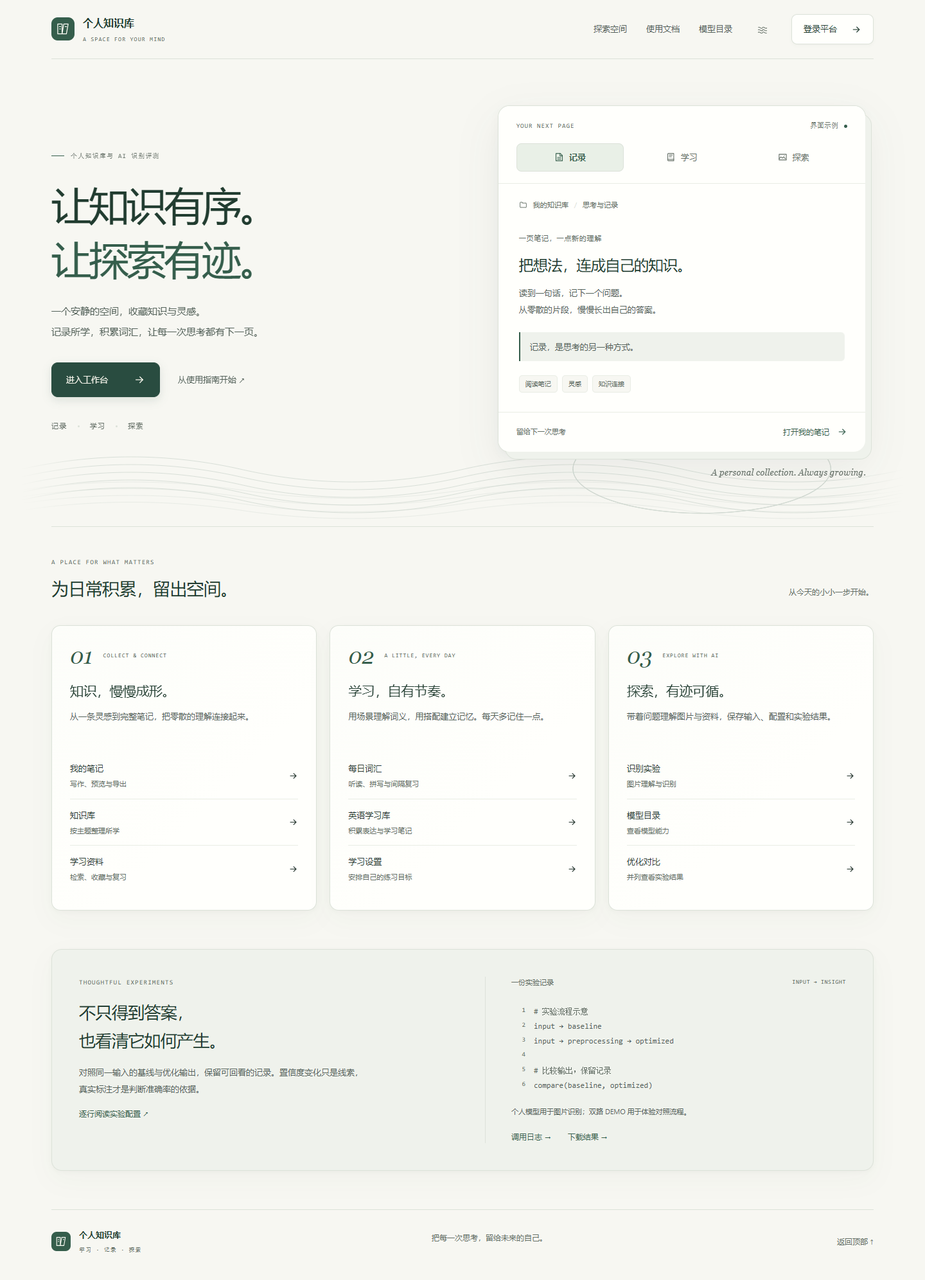
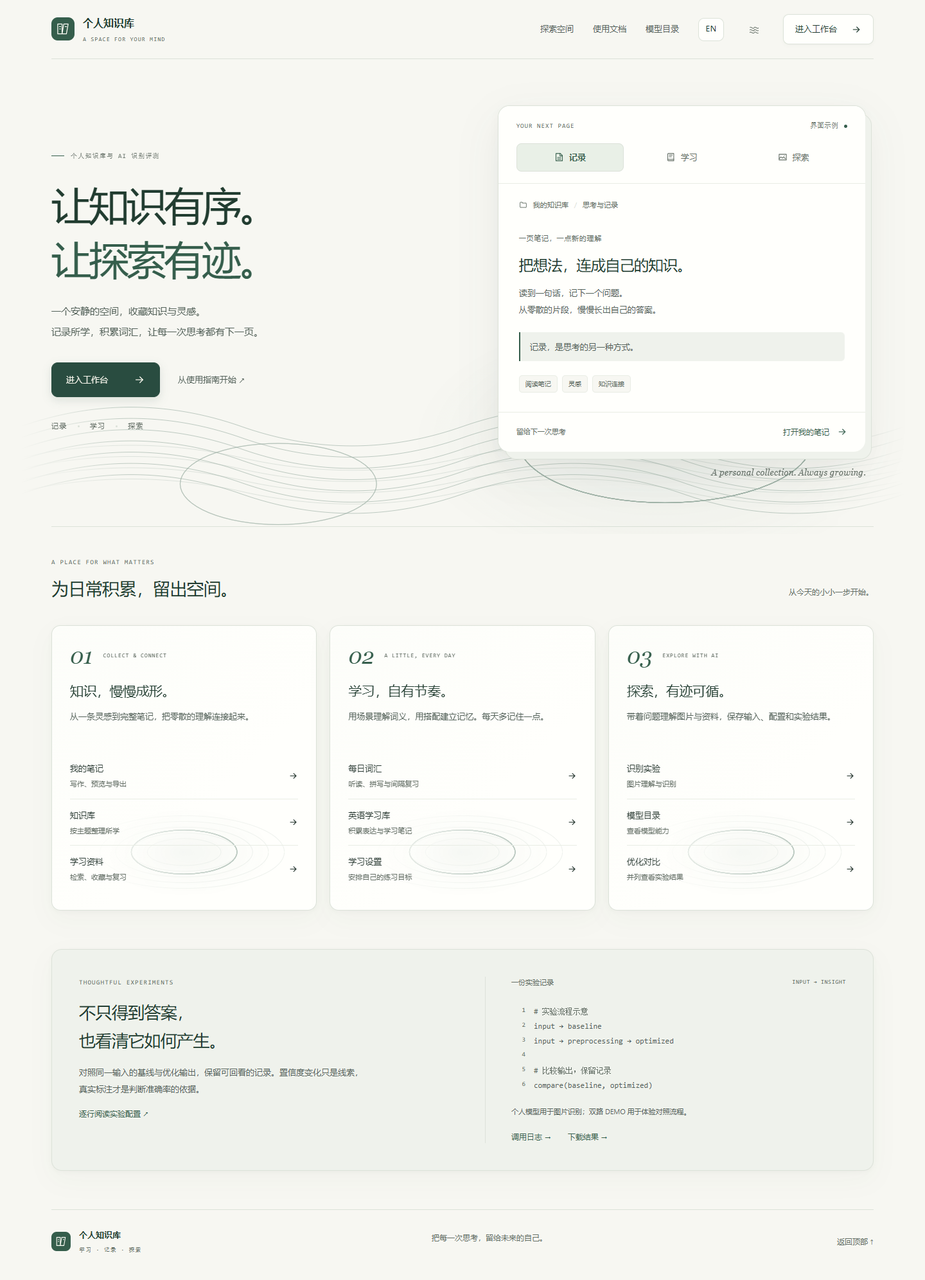
Refine water motion across the learning workspace

diff --git a/cle/src/components/DocumentLibrary.vue b/cle/src/components/DocumentLibrary.vue
@@ -1,4 +1,5 @@
 <script setup lang="ts">
+import AmbientWaves from '@/components/AmbientWaves.vue'
 import HelpHint from '@/components/HelpHint.vue'
 import { uiText } from '@/i18n'
 
@@ -32,5 +33,5 @@ async function download(){try{await api.download('/research/documents/'+selected
 onMounted(async()=>{try{await load();if(route.query.passage){const p=await request<Passage>('/research/documents/passages/'+encodeURIComponent(String(route.query.passage)),{signal:controller.signal});await open(p.documentId,p.id)}else if(route.query.document)await open(String(route.query.document))}catch(e){if(!controller.signal.aborted)error.value=(e as Error).message}})
 onBeforeUnmount(()=>{epoch++;imageEpoch++;controller.abort();if(imageUrl.value)URL.revokeObjectURL(imageUrl.value)})
 </script>
-<template><div><header class="research-section-title"><div><h2>{{ uiText('把资料读进知识库') }}<HelpHint label="文档阅读" text="导入 PDF 或 DOCX 后点击标题阅读。扫描件可识别文字，但需要人工校对；导入任务未完成时，在「任务与同步」查看进度。" /></h2><p class="research-hint">{{ uiText('PDF / Word 导入后可搜索、摘录和制作复习卡。最多 10 MB、300 页；一次最多识别 60 个扫描页。') }}</p></div><label v-if="authStore.has('note:write')" class="button button--dark">{{busy?uiText('正在处理…'):uiText('导入文档')}}<input type="file" accept=".pdf,.docx" :disabled="busy" @change="upload" class="document-file-input" /></label></header><p><label><input v-model="recognize" type="checkbox" :disabled="busy"/>{{ uiText('自动识别扫描页（本地中英文 OCR）') }}</label> · <RouterLink to="/app/research?tab=tasks">{{ uiText('任务与同步 →') }}</RouterLink> · <button class="table-action" @click="load().catch(e=>error=e.message)">{{ uiText('刷新文档') }}</button></p><p v-if="message" role="status">{{message}}</p><p v-if="error" role="alert" class="form-error">{{ uiText(error) }}</p><div class="document-reader"><aside><p v-if="!docs.length" class="research-hint">{{ uiText('导入后的文档会显示在这里。') }}</p><button v-for="d in docs" :key="d.id" :class="{active:selected===d.id}" :disabled="busy" @click="open(d.id)"><small>{{d.format}}</small>{{d.title}}</button></aside><section v-if="current"><header class="research-section-title"><h3>{{current.locator}}</h3><div class="research-actions"><button class="button button--ghost" @click="download">{{ uiText('下载原文') }}</button><button v-if="authStore.has('note:write')" class="button button--ghost" :disabled="busy" @click="capture">{{ uiText('本段存为笔记') }}</button></div></header><ReadingSelection :key="current.id" kind="DOCUMENT" :source-id="current.id"><p class="document-text">{{current.body}}</p></ReadingSelection><button v-if="authStore.has('note:write')" class="button" :disabled="busy" @click="proofread">{{proof?uiText('关闭校对'):uiText('对照原页并校对')}}</button><section v-if="proof" class="proofreader"><p v-if="imageBusy">{{ uiText('正在加载原页…') }}</p><img v-if="imageUrl" :src="imageUrl" :alt="uiText('原 PDF 页面，用于核对识别文字')"/><div><label>{{ uiText('校对当前片段') }}<textarea v-model="draft" class="field-input" rows="18" maxlength="4000"/></label><button class="button button--dark" :disabled="busy||!draft.trim()" @click="correct">{{ uiText('保存校对') }}</button></div></section><nav class="research-pagination"><button class="button" :disabled="busy||index===0" @click="changePart(index-1)">{{ uiText('上一段') }}</button><select :value="index" :disabled="busy" @change="changePart(Number(($event.target as HTMLSelectElement).value));($event.target as HTMLSelectElement).value=String(index)" :aria-label="uiText('跳转到原文位置')" class="field-input"><option v-for="(p,i) in parts" :key="p.id" :value="i">{{p.locator}}</option></select><button class="button" :disabled="busy||index===parts.length-1" @click="changePart(index+1)">{{ uiText('下一段') }}</button></nav><div class="research-actions"><RouterLink :to="{path:'/app/research',query:{tab:'search',type:'DOCUMENT',source:current.id}}">{{ uiText('引用这一段提问 →') }}</RouterLink><button v-if="authStore.has('note:write')" class="table-action" :disabled="busy" @click="remove">{{ uiText('移除文档') }}</button></div><p class="research-hint">{{ uiText('PDF 按原页码定位；Word 按段落定位。扫描页自动进行本地 OCR；复杂排版和识别结果请对照原页核实。校对只更新提取文字，保留原文件。') }}</p></section><section v-else class="research-empty">{{ uiText('选择文档，开始阅读。') }}</section></div></div></template>
+<template><div><header class="research-section-title water-surface"><AmbientWaves variant="pool" class="surface-watermark" /><div><h2>{{ uiText('把资料读进知识库') }}<HelpHint label="文档阅读" text="导入 PDF 或 DOCX 后点击标题阅读。扫描件可识别文字，但需要人工校对；导入任务未完成时，在「任务与同步」查看进度。" /></h2><p class="research-hint">{{ uiText('PDF / Word 导入后可搜索、摘录和制作复习卡。最多 10 MB、300 页；一次最多识别 60 个扫描页。') }}</p></div><label v-if="authStore.has('note:write')" class="button button--dark">{{busy?uiText('正在处理…'):uiText('导入文档')}}<input type="file" accept=".pdf,.docx" :disabled="busy" @change="upload" class="document-file-input" /></label></header><p><label><input v-model="recognize" type="checkbox" :disabled="busy"/>{{ uiText('自动识别扫描页（本地中英文 OCR）') }}</label> · <RouterLink to="/app/research?tab=tasks">{{ uiText('任务与同步 →') }}</RouterLink> · <button class="table-action" @click="load().catch(e=>error=e.message)">{{ uiText('刷新文档') }}</button></p><p v-if="message" role="status">{{message}}</p><p v-if="error" role="alert" class="form-error">{{ uiText(error) }}</p><div class="document-reader"><aside><p v-if="!docs.length" class="research-hint">{{ uiText('导入后的文档会显示在这里。') }}</p><button v-for="d in docs" :key="d.id" :class="{active:selected===d.id}" :disabled="busy" @click="open(d.id)"><small>{{d.format}}</small>{{d.title}}</button></aside><section v-if="current"><header class="research-section-title"><h3>{{current.locator}}</h3><div class="research-actions"><button class="button button--ghost" @click="download">{{ uiText('下载原文') }}</button><button v-if="authStore.has('note:write')" class="button button--ghost" :disabled="busy" @click="capture">{{ uiText('本段存为笔记') }}</button></div></header><ReadingSelection :key="current.id" kind="DOCUMENT" :source-id="current.id"><p class="document-text">{{current.body}}</p></ReadingSelection><button v-if="authStore.has('note:write')" class="button" :disabled="busy" @click="proofread">{{proof?uiText('关闭校对'):uiText('对照原页并校对')}}</button><section v-if="proof" class="proofreader"><p v-if="imageBusy">{{ uiText('正在加载原页…') }}</p><img v-if="imageUrl" :src="imageUrl" :alt="uiText('原 PDF 页面，用于核对识别文字')"/><div><label>{{ uiText('校对当前片段') }}<textarea v-model="draft" class="field-input" rows="18" maxlength="4000"/></label><button class="button button--dark" :disabled="busy||!draft.trim()" @click="correct">{{ uiText('保存校对') }}</button></div></section><nav class="research-pagination"><button class="button" :disabled="busy||index===0" @click="changePart(index-1)">{{ uiText('上一段') }}</button><select :value="index" :disabled="busy" @change="changePart(Number(($event.target as HTMLSelectElement).value));($event.target as HTMLSelectElement).value=String(index)" :aria-label="uiText('跳转到原文位置')" class="field-input"><option v-for="(p,i) in parts" :key="p.id" :value="i">{{p.locator}}</option></select><button class="button" :disabled="busy||index===parts.length-1" @click="changePart(index+1)">{{ uiText('下一段') }}</button></nav><div class="research-actions"><RouterLink :to="{path:'/app/research',query:{tab:'search',type:'DOCUMENT',source:current.id}}">{{ uiText('引用这一段提问 →') }}</RouterLink><button v-if="authStore.has('note:write')" class="table-action" :disabled="busy" @click="remove">{{ uiText('移除文档') }}</button></div><p class="research-hint">{{ uiText('PDF 按原页码定位；Word 按段落定位。扫描页自动进行本地 OCR；复杂排版和识别结果请对照原页核实。校对只更新提取文字，保留原文件。') }}</p></section><section v-else class="research-empty">{{ uiText('选择文档，开始阅读。') }}</section></div></div></template>
 <style scoped>.proofreader{display:grid;grid-template-columns:1fr 1fr;gap:20px;margin:20px 0}.proofreader img{max-width:100%;border:1px solid var(--line)}.proofreader textarea{margin:12px 0}.proofreader>div{min-width:0}.document-reader{display:grid;grid-template-columns:240px minmax(0,1fr);gap:36px;margin-top:24px}.document-reader aside{border-right:1px solid var(--line);padding-right:20px}.document-reader aside button{display:block;width:100%;text-align:left;padding:14px;background:transparent;border:0;border-left:2px solid transparent;color:var(--ink);font:inherit;cursor:pointer;overflow-wrap:anywhere}.document-reader aside small{display:block;color:var(--muted);margin-bottom:6px}.document-reader aside button.active{border-color:var(--green);background:var(--surface-soft)}.document-text{white-space:pre-wrap;line-height:2;font-size:16px;overflow-wrap:anywhere;min-height:260px}.document-file-input{position:absolute;width:1px;height:1px;opacity:0}.research-pagination select{max-width:250px}.research-actions{flex-wrap:wrap}@media(max-width:760px){.document-reader{grid-template-columns:1fr}}</style>

diff --git a/cle/src/views/ResearchView.vue b/cle/src/views/ResearchView.vue
@@ -1,4 +1,5 @@
 <script setup lang="ts">
+import AmbientWaves from '@/components/AmbientWaves.vue'
 import HelpHint from '@/components/HelpHint.vue'
 import { uiText, uiLocale } from '@/i18n'
 
@@ -65,7 +66,7 @@ onBeforeUnmount(()=>{disposed=true;[searchGuard,sourceGuard,answerGuard,settings
  <article v-for="h in hits" :key="key(h)" class="search-result"><input type="checkbox" :checked="selectedKeys.has(key(h))" :disabled="answerBusy||selected.length>=8&&!selectedKeys.has(key(h))" :aria-label="'选择 '+h.title" @change="toggle(h)"/><div><small>{{ uiText(kindName(h.kind)) }} · {{ new Date(h.updatedAt).toLocaleDateString(uiLocale()) }}</small><button class="result-title" :aria-label="h.title" @click="view(h)"><SearchHighlight :text="h.title" :query="appliedQuery"/></button><p><SearchHighlight :text="h.excerpt" :query="appliedQuery"/></p></div><button class="bookmark-button" :class="{'is-saved':bookmarkKeys.has(key(h))}" :aria-pressed="bookmarkKeys.has(key(h))" :aria-label="(bookmarkKeys.has(key(h))?uiText('取消收藏 '):uiText('收藏 '))+h.title" :disabled="bookmarkBusy.has(key(h))" @click="bookmark(h)">{{ bookmarkKeys.has(key(h))?uiText('已收藏'):uiText('收藏') }}</button></article>
  <div class="research-pagination"><button class="button button--ghost" :disabled="page===0||busy" @click="page--;search()">{{ uiText('上一页') }}</button><span>{{ page+1 }}</span><button class="button button--ghost" :disabled="!hasMore||busy" @click="page++;search()">{{ uiText('下一页') }}</button></div>
  <section v-if="source" class="source-reader"><div class="research-section-title"><h2>{{ source.title }}</h2><button class="button button--ghost" @click="closeSource">{{ uiText('收起') }}</button></div><pre>{{ source.body }}</pre><div class="research-actions"><RouterLink v-if="!['RESULT','GROUP'].includes(source.kind)" :to="source.url">{{ uiText('打开原始资料 →') }}</RouterLink><button v-if="authStore.has('personal-ai:use')" class="button button--ghost" :disabled="answerBusy" @click="selectSource">{{selectedKeys.has(key(source))?uiText('取消问答引用'):uiText('用于提问')}}</button><button class="button button--ghost" :disabled="bookmarkBusy.has(key(source))" @click="bookmark(source)">{{ bookmarkKeys.has(key(source))?uiText('取消收藏'):uiText('收藏资料') }}</button><button v-if="authStore.has('note:write')" class="button button--ghost" :disabled="busy" @click="capture">{{ uiText('存为新笔记') }}</button><RouterLink :to="{path:'/app/research',query:{tab:'cards',source:source.id,type:source.kind}}">{{ uiText('制作复习卡 →') }}</RouterLink></div></section>
- </section><aside v-if="authStore.has('personal-ai:use')&&authStore.has('note:write')" class="research-answer"><h2>{{ uiText('向自己的资料提问') }}<HelpHint label="资料问答" text="先在左侧选择资料，再输入问题并选择个人 AI。预览会列出本次发送内容，只有确认后才会交给供应商处理。" /></h2><p class="research-hint">{{ uiText('先选择资料，再预览发送范围。回答会标注来源编号。') }}</p><div class="source-chips"><button v-for="(s,i) in selected" :key="key(s)" :disabled="answerBusy" @click="toggle(s)">S{{ i+1 }} · {{ s.title }} ×</button></div><textarea v-model="question" class="field-input" :disabled="answerBusy" rows="4" maxlength="1000" :placeholder="uiText('例如：这些资料中，哪种方法适合我的实验？')" :aria-label="uiText('问题')"/><select v-model="provider" class="field-input" :disabled="answerBusy" :aria-label="uiText('问答供应商')"><option value="">{{ uiText('选择个人 AI') }}</option><option v-for="s in settings" :key="s.provider" :value="s.provider">{{ s.provider }} · {{ s.model }}</option></select><RouterLink v-if="!settings.length" to="/app/settings?section=ai">{{ uiText('先配置个人 AI →') }}</RouterLink><button class="button button--dark" :disabled="answerBusy||!provider||!selected.length||!question.trim()" @click="ask">{{ uiText('预览发送内容') }}</button>
+ </section><aside v-if="authStore.has('personal-ai:use')&&authStore.has('note:write')" class="research-answer water-surface"><AmbientWaves variant="pool" class="surface-watermark" /><h2>{{ uiText('向自己的资料提问') }}<HelpHint label="资料问答" text="先在左侧选择资料，再输入问题并选择个人 AI。预览会列出本次发送内容，只有确认后才会交给供应商处理。" /></h2><p class="research-hint">{{ uiText('先选择资料，再预览发送范围。回答会标注来源编号。') }}</p><div class="source-chips"><button v-for="(s,i) in selected" :key="key(s)" :disabled="answerBusy" @click="toggle(s)">S{{ i+1 }} · {{ s.title }} ×</button></div><textarea v-model="question" class="field-input" :disabled="answerBusy" rows="4" maxlength="1000" :placeholder="uiText('例如：这些资料中，哪种方法适合我的实验？')" :aria-label="uiText('问题')"/><select v-model="provider" class="field-input" :disabled="answerBusy" :aria-label="uiText('问答供应商')"><option value="">{{ uiText('选择个人 AI') }}</option><option v-for="s in settings" :key="s.provider" :value="s.provider">{{ s.provider }} · {{ s.model }}</option></select><RouterLink v-if="!settings.length" to="/app/settings?section=ai">{{ uiText('先配置个人 AI →') }}</RouterLink><button class="button button--dark" :disabled="answerBusy||!provider||!selected.length||!question.trim()" @click="ask">{{ uiText('预览发送内容') }}</button>
  <section v-if="preview" class="answer-preview"><strong>{{ preview.provider }} · {{ preview.model }}</strong><pre>{{ preview.context }}</pre><label><input v-model="consent" type="checkbox" :disabled="answerBusy"/>{{ uiText('确认发送这些资料，使用我的个人密钥调用') }}</label><button class="button button--dark" :disabled="answerBusy||!consent" @click="execute">{{ answerBusy?uiText('回答生成中…'):uiText('确认并提问') }}</button></section><section v-if="answer" class="answer-output"><h3>{{ uiText('回答') }}</h3><pre>{{ answer }}</pre><ol><li v-for="s in selected" :key="key(s)"><button class="result-title" @click="view(s)">{{ s.title }}</button></li></ol></section></aside><aside v-else class="research-answer"><h2>{{ uiText('继续整理资料') }}</h2><p class="research-hint">{{ uiText('打开资料后，可以继续编写笔记或制作复习卡。') }}</p><RouterLink to="/app/research?tab=cards">{{ uiText('打开复习卡 →') }}</RouterLink></aside></div></template>
  <WorkspaceTasks v-if="tab==='tasks'"/><ReadingClips v-if="tab==='clips'"/><DocumentLibrary v-if="tab==='documents'" />
  <StudyCards v-else-if="tab==='cards'"/><KnowledgeCollections v-else-if="tab==='collections'"/><BenchmarkPanel v-else-if="tab==='evaluations'"/><RecoveryPanel v-else-if="tab==='trash'"/>

diff --git a/cle/src/components/AmbientWaves.vue b/cle/src/components/AmbientWaves.vue
@@ -1,6 +1,8 @@
 <script setup lang="ts">
-import { computed, onBeforeUnmount, onMounted, ref } from 'vue'
+import { computed, onBeforeUnmount, onMounted, ref, useId } from 'vue'
 import { motionEnabled, motionState } from '@/lib/motion'
+withDefaults(defineProps<{ variant?: 'flow' | 'pool' }>(), { variant: 'flow' })
+const glowId = useId()
 const root = ref<HTMLElement | null>(null), inView = ref(false)
 const running = computed(() => motionEnabled.value && motionState.visible && inView.value)
 let observer: IntersectionObserver | undefined
@@ -13,21 +15,29 @@ onBeforeUnmount(() => observer?.disconnect())
 const wave = (y: number, amplitude: number) => `M-720 ${y} Q-540 ${y-amplitude} -360 ${y} T0 ${y} T360 ${y} T720 ${y} T1080 ${y} T1440 ${y} T1800 ${y} T2160 ${y}`
 </script>
 <template>
-  <div ref="root" class="ambient-waves" :data-running="running" aria-hidden="true">
-    <svg viewBox="0 0 1440 360" preserveAspectRatio="none" fill="none" focusable="false">
-      <g class="wave-flow wave-flow--first"><path v-for="n in 5" :key="n" :d="wave(210+n*16, 52)" /></g>
-      <g class="wave-flow wave-flow--second"><path v-for="n in 4" :key="n" :d="wave(255+n*14, 34)" /></g>
-      <g class="water-rings"><ellipse v-for="n in 3" :key="n" cx="1110" cy="225" rx="210" ry="92" :style="{ animationDelay: `${(n-1)*-6}s` }" /></g>
+  <div ref="root" class="ambient-waves" :class="`ambient-waves--${variant}`" :data-running="running" aria-hidden="true">
+    <svg :viewBox="variant === 'pool' ? '450 -90 1200 600' : '0 0 1440 360'" :preserveAspectRatio="variant === 'pool' ? 'xMidYMid slice' : 'none'" fill="none" focusable="false">
+      <defs><radialGradient :id="glowId"><stop stop-color="currentColor" stop-opacity=".2" /><stop offset=".55" stop-color="currentColor" stop-opacity=".06" /><stop offset="1" stop-color="currentColor" stop-opacity="0" /></radialGradient></defs>
+      <ellipse class="water-light" cx="1040" cy="210" rx="410" ry="210" :fill="`url(#${glowId})`" />
+      <template v-if="variant === 'flow'">
+        <g class="wave-flow wave-flow--first"><path v-for="n in 7" :key="n" :d="wave(170+n*18, 62)" /></g>
+        <g class="wave-flow wave-flow--second"><path v-for="n in 4" :key="n" :d="wave(220+n*18, 40)" /></g>
+      </template>
+      <g v-else class="water-contours"><ellipse v-for="n in 5" :key="n" cx="1050" cy="210" :rx="95+n*72" :ry="35+n*26" /></g>
+      <g class="water-rings"><ellipse v-for="n in 4" :key="n" cx="1050" cy="210" rx="240" ry="100" :style="{ animationDelay: `${(n-1)*-3.5}s` }" /></g>
+      <g v-if="variant === 'flow'" class="water-rings water-rings--echo"><ellipse v-for="n in 2" :key="n" cx="420" cy="280" rx="160" ry="65" :style="{ animationDelay: `${-4-(n-1)*7}s` }" /></g>
     </svg>
   </div>
 </template>
 <style scoped>
-.ambient-waves{position:absolute;inset:0;z-index:-1;overflow:hidden;pointer-events:none;color:var(--wave-ink,var(--green));opacity:.25;contain:paint;mask-image:linear-gradient(to right,transparent,#000 8%,#000 92%,transparent)}
-.ambient-waves svg{display:block;width:100%;height:100%;overflow:hidden}.ambient-waves path,.ambient-waves ellipse{stroke:currentColor;stroke-width:.8;vector-effect:non-scaling-stroke}
-.wave-flow{transform-box:view-box;animation:wave-drift 32s linear infinite}.wave-flow--second{opacity:.5;animation-duration:43s;animation-direction:reverse}.water-rings ellipse{transform-origin:1110px 225px;animation:water-spread 18s ease-out infinite}
-[data-running=false] :is(.wave-flow,.water-rings ellipse){animation-play-state:paused}
+.ambient-waves{position:absolute;inset:0;z-index:-1;overflow:hidden;border-radius:inherit;pointer-events:none;color:var(--wave-ink,var(--green));opacity:.5;contain:paint;mask-image:linear-gradient(to right,transparent,#000 12%,#000 90%,transparent)}
+.ambient-waves svg{display:block;width:100%;height:100%;overflow:hidden}.ambient-waves path,.water-rings ellipse,.water-contours ellipse{stroke:currentColor;stroke-width:1;vector-effect:non-scaling-stroke}
+.wave-flow{transform-box:view-box;animation:wave-drift 27s linear infinite;opacity:.65}.wave-flow--second{opacity:.3;animation-duration:37s;animation-direction:reverse}.water-rings ellipse{transform-origin:1050px 210px;animation:water-spread 14s ease-out infinite;stroke-width:1.2}.water-rings--echo ellipse{transform-origin:420px 280px;opacity:.5}.water-contours{opacity:.22;transform-origin:1050px 210px;animation:water-breathe 16s ease-in-out infinite alternate}.water-light{animation:water-light 12s ease-in-out infinite alternate;transform-origin:1040px 210px}
+[data-running=false] :is(.wave-flow,.water-rings ellipse,.water-contours,.water-light){animation-play-state:paused}
 @keyframes wave-drift{from{transform:translateX(0)}to{transform:translateX(-50%)}}
-@keyframes water-spread{0%{transform:scale(.45);opacity:0}18%{opacity:.6}100%{transform:scale(1.6);opacity:0}}
-@media(prefers-reduced-motion:reduce){.wave-flow,.water-rings ellipse{animation:none}.water-rings{display:none}}
-:global([data-motion=off]) .wave-flow,:global([data-motion=off]) .water-rings ellipse{animation-play-state:paused}
+@keyframes water-spread{0%{transform:scale(.35);opacity:0}16%{opacity:.8}70%{opacity:.22}100%{transform:scale(1.9);opacity:0}}
+@keyframes water-breathe{from{transform:scale(.92) translateY(2px)}to{transform:scale(1.08) translateY(-4px)}}
+@keyframes water-light{from{opacity:.4;transform:translateX(-24px)}to{opacity:.85;transform:translateX(24px)}}
+@media(prefers-reduced-motion:reduce){.wave-flow,.water-rings ellipse,.water-contours,.water-light{animation:none}.water-rings{display:none}}
+:global([data-motion=off]) :is(.wave-flow,.water-rings ellipse,.water-contours,.water-light){animation-play-state:paused}
 </style>

diff --git a/cle/src/lib/useSurfaceRipples.ts b/cle/src/lib/useSurfaceRipples.ts
@@ -3,7 +3,7 @@ import { useRoute } from 'vue-router'
 import { motionEnabled, motionState } from './motion'
 
 // Only surfaces, never fields, editor text, or arbitrary document links.
-const surfaces = '.button,.home-primary,.home-enter,.home-folio>a,.home-chapter-links a,.workspace-action-grid>a,.workspace-directory>summary,.directory-item>a,.vocab-tabs button,.learning-toolbar nav button,.learning-sidebar>a,.learning-library-links>a,.shelf-actions button,.shelf-categories button,.settings-navigation button,.research-tabs>a,.experiment-tasks button,.mail-list>header button,.people-tabs button'
+const surfaces = '.button,.home-primary,.home-enter,.home-folio>a,.home-chapter-links a,.workspace-action-grid>a,.workspace-quick a,.workspace-directory>summary,.directory-item>a,.vocab-tabs button,.learning-toolbar nav button,.learning-sidebar>a,.learning-library-links>a,.shelf-actions button,.shelf-categories button,.settings-navigation button,.research-tabs>a,.experiment-tasks button,.mail-list>header button,.people-tabs button,.preview-tabs button,.ai-setting-tabs button,.theme-palette,.guide-step-link,.guide-step-detail>summary,.beginner-walkthrough>details>summary'
 
 export function useSurfaceRipples() {
   const route = useRoute()
@@ -13,20 +13,25 @@ export function useSurfaceRipples() {
   function ripple(event: MouseEvent, centered = false) {
     if (!motionEnabled.value || !motionState.visible || !(event.target instanceof Element)) return
     const target = event.target.closest<HTMLElement>(surfaces)
-    if (!target || target.closest('[inert],[aria-disabled=true],:disabled') || !target.matches('a,button,summary')) return
+    if (!target || target.closest('[inert],[aria-disabled=true],:disabled,[contenteditable=true],.markdown-body,.note-preview-pane') || !target.matches('a,button,summary')) return
     const box = target.getBoundingClientRect()
     if (box.width <= 0 || box.height <= 0) return
     // Scroll/resize/navigation clear these viewport-positioned, non-interactive overlays.
     if (active.size >= 3) remove(active.keys().next().value!)
-    const layer = document.createElement('span'), circle = document.createElement('span')
-    layer.className = 'surface-ripple-layer'; circle.className = 'surface-ripple'
+    const layer = document.createElement('span'), circle = document.createElement('span'), echo = document.createElement('span')
+    layer.className = 'surface-ripple-layer'; circle.className = 'surface-ripple'; echo.className = 'surface-ripple surface-ripple--echo'
     layer.setAttribute('aria-hidden', 'true')
     const style = window.getComputedStyle(target), size = Math.min(900, Math.hypot(box.width, box.height) * 2)
-    Object.assign(layer.style, { left: `${box.left}px`, top: `${box.top}px`, width: `${box.width}px`, height: `${box.height}px`, borderRadius: style.borderRadius, color: style.color })
-    Object.assign(circle.style, { width: `${size}px`, height: `${size}px`, left: `${centered ? box.width/2 : event.clientX-box.left}px`, top: `${centered ? box.height/2 : event.clientY-box.top}px` })
-    layer.append(circle)
+    Object.assign(layer.style, { left: '0px', top: '0px', width: '100px', height: '100px', borderRadius: style.borderRadius, color: style.color })
     ;(target.closest('dialog[open]') || document.body).append(layer)
-    active.set(layer, setTimeout(() => remove(layer), 850))
+    // Resolve zoom and the fixed-position origin, including transformed dialogs.
+    const origin = layer.getBoundingClientRect(), scale = layer.offsetWidth ? origin.width / layer.offsetWidth : 1
+    Object.assign(layer.style, { left: `${(box.left-origin.left)/scale}px`, top: `${(box.top-origin.top)/scale}px`, width: `${box.width/scale}px`, height: `${box.height/scale}px` })
+    const x = centered ? box.width/2 : Math.max(0, Math.min(box.width, event.clientX-box.left))
+    const y = centered ? box.height/2 : Math.max(0, Math.min(box.height, event.clientY-box.top))
+    for (const ring of [circle, echo]) Object.assign(ring.style, { width: `${size/scale}px`, height: `${size/scale}px`, left: `${x/scale}px`, top: `${y/scale}px` })
+    layer.append(circle, echo)
+    active.set(layer, setTimeout(() => remove(layer), 1350))
     circle.addEventListener('animationend', () => remove(layer), { once: true })
   }
   const pointer = (event: PointerEvent) => { if (event.button === 0 && event.isPrimary !== false) ripple(event) }

diff --git a/cle/src/styles/motion.css b/cle/src/styles/motion.css
@@ -1,9 +1,29 @@
 .surface-ripple-layer{position:fixed;display:block;z-index:2147483000;overflow:hidden;pointer-events:none!important;contain:strict}
-.surface-ripple{position:absolute;display:block;border-radius:50%;border:1px solid color-mix(in srgb,currentColor 30%,transparent);background:color-mix(in srgb,currentColor 6%,transparent);transform:translate(-50%,-50%) scale(.02);opacity:0;animation:surface-spread .75s cubic-bezier(.16,1,.3,1) forwards;pointer-events:none!important}
-@keyframes surface-spread{0%{transform:translate(-50%,-50%) scale(.02);opacity:.6}100%{transform:translate(-50%,-50%) scale(1);opacity:0}}
+.surface-ripple{position:absolute;display:block;border-radius:50%;border:1px solid color-mix(in srgb,currentColor 48%,transparent);background:color-mix(in srgb,currentColor 8%,transparent);box-shadow:0 0 0 7px color-mix(in srgb,currentColor 4%,transparent);transform:translate(-50%,-50%) scale(.02);opacity:0;animation:surface-spread 1.2s cubic-bezier(.18,.7,.22,1) forwards;pointer-events:none!important}
+.surface-ripple--echo{background:transparent;border-color:color-mix(in srgb,currentColor 32%,transparent);box-shadow:none;animation-duration:.95s;animation-delay:.13s}
+@keyframes surface-spread{0%{transform:translate(-50%,-50%) scale(.02);opacity:.85}55%{opacity:.35}100%{transform:translate(-50%,-50%) scale(1);opacity:0}}
 [data-motion=off] .surface-ripple-layer{display:none}
 [data-motion=off] :is(.home-hero-copy,.home-folio-wrap){animation:none}
 [data-motion=off] :is(.home-primary svg,.workspace-action-grid svg){transition:none;transform:none}
 [data-motion=off] .workspace-quick a{transition:none}
 @media(prefers-reduced-motion:reduce){.surface-ripple-layer{display:none}}
 @media(prefers-reduced-motion:reduce){.workspace-quick a{transition:none}}
+
+/* Local pools add depth to resting surfaces; their SVG never intercepts input. */
+.water-surface{position:relative;isolation:isolate}
+.water-surface>.surface-watermark{inset:0 0 auto auto;width:min(100%,620px);height:200px;max-height:100%;opacity:.4;mask-image:linear-gradient(110deg,transparent 12%,#000 78%)}
+.water-surface--bottom>.surface-watermark{inset:auto 0 0;width:100%;height:260px;opacity:.32;mask-image:linear-gradient(180deg,transparent,#000 70%)}
+.settings-navigation.water-surface,.learning-sidebar.water-surface{position:sticky}
+.workspace-learning.water-surface>.surface-watermark{height:100%;opacity:.35}
+.home-chapter.water-surface>.surface-watermark{height:180px;opacity:.4;inset:auto 0 0 auto;max-width:100%}
+.getting-started header.water-surface>.surface-watermark{width:45%;height:140px;max-height:none;opacity:.34;mask-image:linear-gradient(0deg,transparent,#000 55%)}
+.research-section-title.water-surface>.surface-watermark,.personal-ai-settings header.water-surface>.surface-watermark{opacity:.3;width:65%;height:140px}
+.water-surface>.surface-watermark svg{max-width:none}
+.workspace-header{background:var(--surface-sheen);box-shadow:var(--shadow-soft)}
+.workspace-action-grid>a,.home-chapter.water-surface,.learning-library-links>a{background:var(--surface-sheen)}
+@media(prefers-reduced-motion:no-preference){
+  [data-motion=on] :is(.workspace-action-grid>a,.home-chapter,.theme-palette,.guide-step-link){transition:background .25s,border-color .25s,box-shadow .25s}
+  [data-motion=on] :is(.workspace-action-grid>a,.theme-palette):hover{box-shadow:var(--shadow-raised);border-color:color-mix(in srgb,var(--green) 55%,var(--line))}
+}
+@media(max-width:900px){.learning-sidebar.water-surface{position:relative}}
+@media(max-width:700px){.settings-navigation.water-surface{position:relative}.water-surface>.surface-watermark{opacity:.25}}

diff --git a/cle/src/views/GroupsView.vue b/cle/src/views/GroupsView.vue
@@ -1,4 +1,5 @@
 <script setup lang="ts">
+import AmbientWaves from '@/components/AmbientWaves.vue'
 import { uiText, uiLocale } from '@/i18n'
 
 import GroupLifecycle from '@/components/GroupLifecycle.vue'
@@ -263,7 +264,7 @@ onBeforeUnmount(()=>window.removeEventListener('pkb:live-update',liveRefresh))
     <form v-if="creating" class="group-create" @submit.prevent="createGroup"><label class="field-label">{{ uiText('群组名称') }}<input v-model="groupName" class="field-input" maxlength="100" required :disabled="busy" :placeholder="uiText('例如：论文研读')" /></label><button class="button button--dark" :disabled="busy">{{ uiText('创建群组') }}</button></form>
     <p v-if="error" class="inline-alert inline-alert--error" role="alert">{{ uiText(error) }}</p><p v-if="notice" class="field-hint" role="status">{{ uiText(notice) }}</p>
     <GroupInvitations @refresh="loadGroups" /><div class="group-layout">
-      <aside class="group-sidebar"><p class="page-kicker">{{ isAdmin ? uiText('全部群组') : uiText('我的会话') }}</p><input v-model="groupQuery" type="search" class="field-input group-filter" :aria-label="uiText('筛选群组')" :placeholder="uiText('搜索群组')" /><button class="group-refresh" :disabled="busy || loading" @click="loadGroups">{{ uiText('刷新列表') }}</button>
+      <aside class="group-sidebar water-surface water-surface--bottom"><AmbientWaves variant="pool" class="surface-watermark" /><p class="page-kicker">{{ isAdmin ? uiText('全部群组') : uiText('我的会话') }}</p><input v-model="groupQuery" type="search" class="field-input group-filter" :aria-label="uiText('筛选群组')" :placeholder="uiText('搜索群组')" /><button class="group-refresh" :disabled="busy || loading" @click="loadGroups">{{ uiText('刷新列表') }}</button>
         <button v-for="group in visibleGroups" :key="group.id" :class="{ active: selected?.id === group.id }" :disabled="busy" @click="selectGroup(group.id)"><strong>{{ group.name }}</strong><span v-if="features[group.id]?.unread" class="unread-badge">{{ features[group.id].unread > 99 ? '99+' : features[group.id].unread }}</span><small>{{ features[group.id]?.pinned ? uiText('置顶 · ') : '' }}{{ features[group.id]?.muted ? uiText('免打扰 · ') : '' }}{{ group.ownerName }}</small></button>
         <p v-if="!visibleGroups.length && !loading">{{ groups.length ? uiText('没有匹配的群组。') : uiText('还没有群组。新建一个，或请群主通过身份码邀请你。') }}</p><RouterLink to="/app/mail">{{ uiText('联系管理员 ↗') }}</RouterLink>
       </aside>

diff --git a/cle/src/views/ContactsView.vue b/cle/src/views/ContactsView.vue
@@ -1,4 +1,5 @@
 <script setup lang="ts">
+import AmbientWaves from '@/components/AmbientWaves.vue'
 import { uiText, uiLocale } from '@/i18n'
 
 import { computed, nextTick, onBeforeUnmount, onMounted, ref, watch } from 'vue'
@@ -211,7 +212,7 @@ onBeforeUnmount(() => { reset(); document.removeEventListener('visibilitychange'
     <section class="page-intro page-intro--split"><div><p class="page-kicker">PEOPLE & CONVERSATIONS</p><h2>{{ uiText('联系人与聊天') }}</h2><p>{{ uiText('把交流留在这里，把联系掌握在自己手中。') }}</p></div><RouterLink class="text-link" to="/app/groups">{{ uiText('群组讨论与资料 →') }}</RouterLink></section>
     <p v-if="error && !confirmation" class="inline-alert inline-alert--error" role="alert">{{ uiText(error) }}</p>
     <div class="people-layout">
-      <aside class="people-directory">
+      <aside class="people-directory water-surface water-surface--bottom"><AmbientWaves variant="pool" class="surface-watermark" />
         <form class="people-search" @submit.prevent="search"><label for="people-query">{{ uiText('查找与添加') }}</label><div><input id="people-query" v-model="query" class="field-input" type="search" maxlength="50" :placeholder="uiText('身份码、用户名或昵称')" /><button class="button button--ghost" :disabled="searching || loading">{{ searching ? uiText('查找中…') : uiText('查找用户') }}</button></div></form>
         <nav class="people-tabs" :aria-label="uiText('联系人分类')"><button :class="{ active: listTab === 'contacts' && !searched }" :aria-current="listTab === 'contacts' && !searched ? 'page' : undefined" @click="selectList('contacts')">{{ uiText('联系人') }} <b v-if="unreadTotal">{{ unreadTotal > 99 ? '99+' : unreadTotal }}</b></button><button :class="{ active: listTab === 'requests' && !searched }" :aria-current="listTab === 'requests' && !searched ? 'page' : undefined" @click="selectList('requests')">{{ uiText('申请') }} <b v-if="incoming.length">{{ incoming.length }}</b></button><button :class="{ active: listTab === 'blacklist' && !searched }" :aria-current="listTab === 'blacklist' && !searched ? 'page' : undefined" @click="selectList('blacklist')">{{ uiText('黑名单') }} <small v-if="blocked.length">{{ blocked.length }}</small></button></nav>
         <div class="people-list-content">

diff --git a/cle/src/components/VocabularyBookShelf.vue b/cle/src/components/VocabularyBookShelf.vue
@@ -4,6 +4,7 @@ import { uiText, uiLocale } from '@/i18n'
 import { computed, ref, watch } from 'vue'
 import type { VocabularyBook } from '@/api/vocabulary'
 import AppIcon from './AppIcon.vue'
+import AmbientWaves from './AmbientWaves.vue'
 
 const props = defineProps<{ books: VocabularyBook[]; selected: string; busy: boolean }>()
 const emit = defineEmits<{ choose: [id: string]; preview: [id: string]; import: [] }>()
@@ -41,7 +42,8 @@ function clear() { query.value = ''; category.value = '全部' }
     <nav class="shelf-categories" :aria-label="uiText('词书分类')"><button v-for="item in categories" :key="item" :aria-pressed="category === item" @click="category = item">{{ uiText(item) }}<small>{{ item === '全部' ? books.length : books.filter(book => group(book) === item).length }}</small></button></nav>
     <div class="shelf-result"><span role="status">{{ uiText(category) }} · {{ filtered.length }} {{ uiText('本词书') }}</span><span>{{ uiText('同一单词可能收录于不同词书') }}</span></div>
     <div v-if="visible.length" class="shelf-grid">
-      <article v-for="book in visible" :key="book.id" class="shelf-book" :class="{ 'is-current': selected === book.id }">
+      <article v-for="book in visible" :key="book.id" class="shelf-book water-surface" :class="{ 'is-current': selected === book.id }">
+        <AmbientWaves v-if="selected === book.id" variant="pool" class="surface-watermark" />
         <div class="shelf-book-top"><span>{{ book.owned ? uiText('私人词书') : book.level }}</span><span v-if="selected === book.id" class="shelf-current"><AppIcon name="check" :size="13" />{{ uiText('正在学习') }}</span><small v-else>{{ book.totalWords.toLocaleString(uiLocale()) }} {{ uiText('词') }}</small></div>
         <h4>{{ book.title }}</h4><p class="shelf-description">{{ book.description }}</p>
         <div class="shelf-progress-copy"><span>{{ book.learned.toLocaleString(uiLocale()) }} / {{ book.totalWords.toLocaleString(uiLocale()) }} {{ uiText('词掌握') }}</span><span>{{ book.due }} {{ uiText('待复习') }}</span></div>

diff --git a/cle/src/components/PersonalAiProviders.vue b/cle/src/components/PersonalAiProviders.vue
@@ -1,4 +1,5 @@
 <script setup lang="ts">
+import AmbientWaves from '@/components/AmbientWaves.vue'
 import HelpHint from '@/components/HelpHint.vue'
 import { uiText } from '@/i18n'
 
@@ -85,7 +86,7 @@ onBeforeUnmount(() => { active = false; form.apiKey = '' })
 </script>
 <template>
   <article class="panel settings-card personal-ai-settings">
-    <header><div><h3>{{ uiText('个人 AI 服务') }}<HelpHint label="个人 AI 服务" text="普通笔记和背单词不用配置 AI。需要 AI 帮助时，选择供应商并保存自己的模型、接口地址和密钥，再单独测试连接。" /></h3><p>{{ uiText('使用你自己的 API 密钥。每个账户独立保存配置，费用由供应商向你的 API 账户结算。') }}</p></div><span class="settings-badge">{{ configuredCount }} {{ uiText('个已启用') }}</span></header>
+    <header class="water-surface"><AmbientWaves variant="pool" class="surface-watermark" /><div><h3>{{ uiText('个人 AI 服务') }}<HelpHint label="个人 AI 服务" text="普通笔记和背单词不用配置 AI。需要 AI 帮助时，选择供应商并保存自己的模型、接口地址和密钥，再单独测试连接。" /></h3><p>{{ uiText('使用你自己的 API 密钥。每个账户独立保存配置，费用由供应商向你的 API 账户结算。') }}</p></div><span class="settings-badge">{{ configuredCount }} {{ uiText('个已启用') }}</span></header>
     <p class="settings-notice">{{ uiText('密钥仅用于你的请求，不会显示给其他用户。每次在笔记中调用模型前，你都可以审阅将发送的完整内容。平台余额与个人 AI 费用分开。') }}</p>
     <p v-if="error" class="inline-alert inline-alert--error" role="alert">{{ uiText(error) }} <button v-if="!providers.length" class="table-action" @click="load">{{ uiText('重试') }}</button></p>
     <p v-if="loading" class="settings-empty" role="status">{{ uiText('正在加载供应商…') }}</p>

diff --git a/cle/src/views/MailboxView.vue b/cle/src/views/MailboxView.vue
@@ -1,4 +1,5 @@
 <script setup lang="ts">
+import AmbientWaves from '@/components/AmbientWaves.vue'
 import { uiText, uiLocale } from '@/i18n'
 
 import { computed, nextTick, onBeforeUnmount, onMounted, ref, watch } from 'vue'
@@ -161,7 +162,7 @@ onBeforeUnmount(reset)
     <section class="page-intro page-intro--split"><div><p class="page-kicker">COLLABORATION</p><h2>{{ uiText('站内信箱') }}</h2><p>{{ uiText('联系平台管理员或联系人或同组成员；群内讨论和资料分享请进入群组协作。') }}</p></div><button class="button button--dark" :disabled="loading || busy" @click="compose()"><AppIcon name="plus" :size="17" /> {{ uiText('写信') }}</button></section>
     <div class="mail-shortcuts"><RouterLink to="/app/groups">{{ uiText('打开群组协作 →') }}</RouterLink><button type="button" :disabled="loading || busy" @click="load">{{ uiText('刷新联系人与消息') }}</button><button v-for="admin in directory.filter(user => user.relationship === 'ADMIN')" :key="admin.id" type="button" :disabled="loading || busy" @click="compose(admin.id)">{{ uiText('联系管理员 ·') }} {{ admin.displayName }}</button></div>
     <section class="mail-layout panel">
-      <aside class="mail-list">
+      <aside class="mail-list water-surface water-surface--bottom"><AmbientWaves variant="pool" class="surface-watermark" />
         <header><div><button :class="{ active: tab === 'inbox' }" @click="switchTab('inbox')">{{ uiText('收件箱') }} <b>{{ unread }}</b></button><button :class="{ active: tab === 'sent' }" @click="switchTab('sent')">{{ uiText('已发送') }}</button></div></header>
         <div v-if="loading" class="table-skeleton" />
         <EmptyState v-else-if="!messages.length" :title="uiText('暂无消息')" :description="uiText('新消息会出现在这里。')" icon="mail" />

diff --git a/cle/src/components/GettingStarted.vue b/cle/src/components/GettingStarted.vue
@@ -1,4 +1,5 @@
 <script setup lang="ts">
+import AmbientWaves from '@/components/AmbientWaves.vue'
 import {computed,ref,watch,onBeforeUnmount} from 'vue'
 import {authStore} from '@/stores/auth'
 import {request} from '@/api/client'
@@ -19,7 +20,7 @@ onBeforeUnmount(()=>guard.cancel())
 </script>
 <template>
   <section v-if="steps.length || error" class="getting-started panel">
-    <header><div><p class="page-kicker">YOUR FIRST STEPS</p><h3>{{ uiText('从这里开始') }} <small>{{ done }} / {{ steps.length }}</small><HelpHint label="入门进度" text="只统计已经保存的笔记、练习、文档和复习卡。点开页面不会完成任务；完成后可以点击「检查完成情况」。" /></h3></div><button class="button button--ghost" :aria-expanded="!hidden" @click="toggle">{{ hidden ? uiText('展开引导') : uiText('暂时收起') }}</button></header>
+    <header class="water-surface"><AmbientWaves variant="pool" class="surface-watermark" /><div><p class="page-kicker">YOUR FIRST STEPS</p><h3>{{ uiText('从这里开始') }} <small>{{ done }} / {{ steps.length }}</small><HelpHint label="入门进度" text="只统计已经保存的笔记、练习、文档和复习卡。点开页面不会完成任务；完成后可以点击「检查完成情况」。" /></h3></div><button class="button button--ghost" :aria-expanded="!hidden" @click="toggle">{{ hidden ? uiText('展开引导') : uiText('暂时收起') }}</button></header>
     <p v-if="error" role="alert">{{ uiText(error) }} <button class="table-action" :disabled="busy" @click="load">{{ uiText('重试') }}</button></p>
     <template v-if="!hidden">
       <p class="guide-welcome">{{ uiText('不用一次学会全部功能。先选一件想做的事，跟着步骤完成；这些入门操作都不需要 AI 密钥。') }}</p>

diff --git a/cle/src/views/OverviewView.vue b/cle/src/views/OverviewView.vue
@@ -91,7 +91,7 @@ const date = (value: string) => Number.isFinite(Date.parse(value)) ? new Intl.Da
         <div v-if="authStore.has('knowledge:read')" class="workspace-library-link"><AppIcon name="folder" :size="18" /><div><strong>{{ uiText('把零散的知识，放回主题里。') }}</strong><span>{{ uiText('英语、计算机与自己的学习资料') }}</span></div><RouterLink to="/app/knowledge">{{ uiText('打开知识库') }} <span aria-hidden="true">↗</span></RouterLink></div>
       </section>
       <aside class="workspace-home-aside">
-        <section v-if="authStore.has('vocabulary:use')" class="workspace-learning" aria-labelledby="today-learning-title">
+        <section v-if="authStore.has('vocabulary:use')" class="workspace-learning water-surface" aria-labelledby="today-learning-title"><AmbientWaves variant="pool" class="surface-watermark" />
           <div class="workspace-learning-label"><span class="page-kicker">DAILY PRACTICE</span><AppIcon name="book" :size="19" /></div><h2 id="today-learning-title">{{ uiText('今天，也学一点。') }}</h2>
           <p v-if="pending.vocabulary" role="status">{{ uiText('正在读取学习进度…') }}</p><p v-else-if="errors.vocabulary" role="alert">{{ uiText('学习进度暂未加载，可进入词书查看。') }}</p>
           <template v-else-if="vocabulary"><p>{{ book?.title || uiText('选一本词书，开始积累') }}</p><div class="workspace-learning-stats"><div><strong>{{ vocabulary.today.learned }}</strong><span>{{ uiText('今日学习') }}</span></div><div><strong>{{ vocabulary.dueTotal }}</strong><span>{{ uiText('待复习') }}</span></div><div><strong>{{ vocabulary.streak }}<small> {{ uiText('天') }}</small></strong><span>{{ uiText('连续学习') }}</span></div></div></template>
